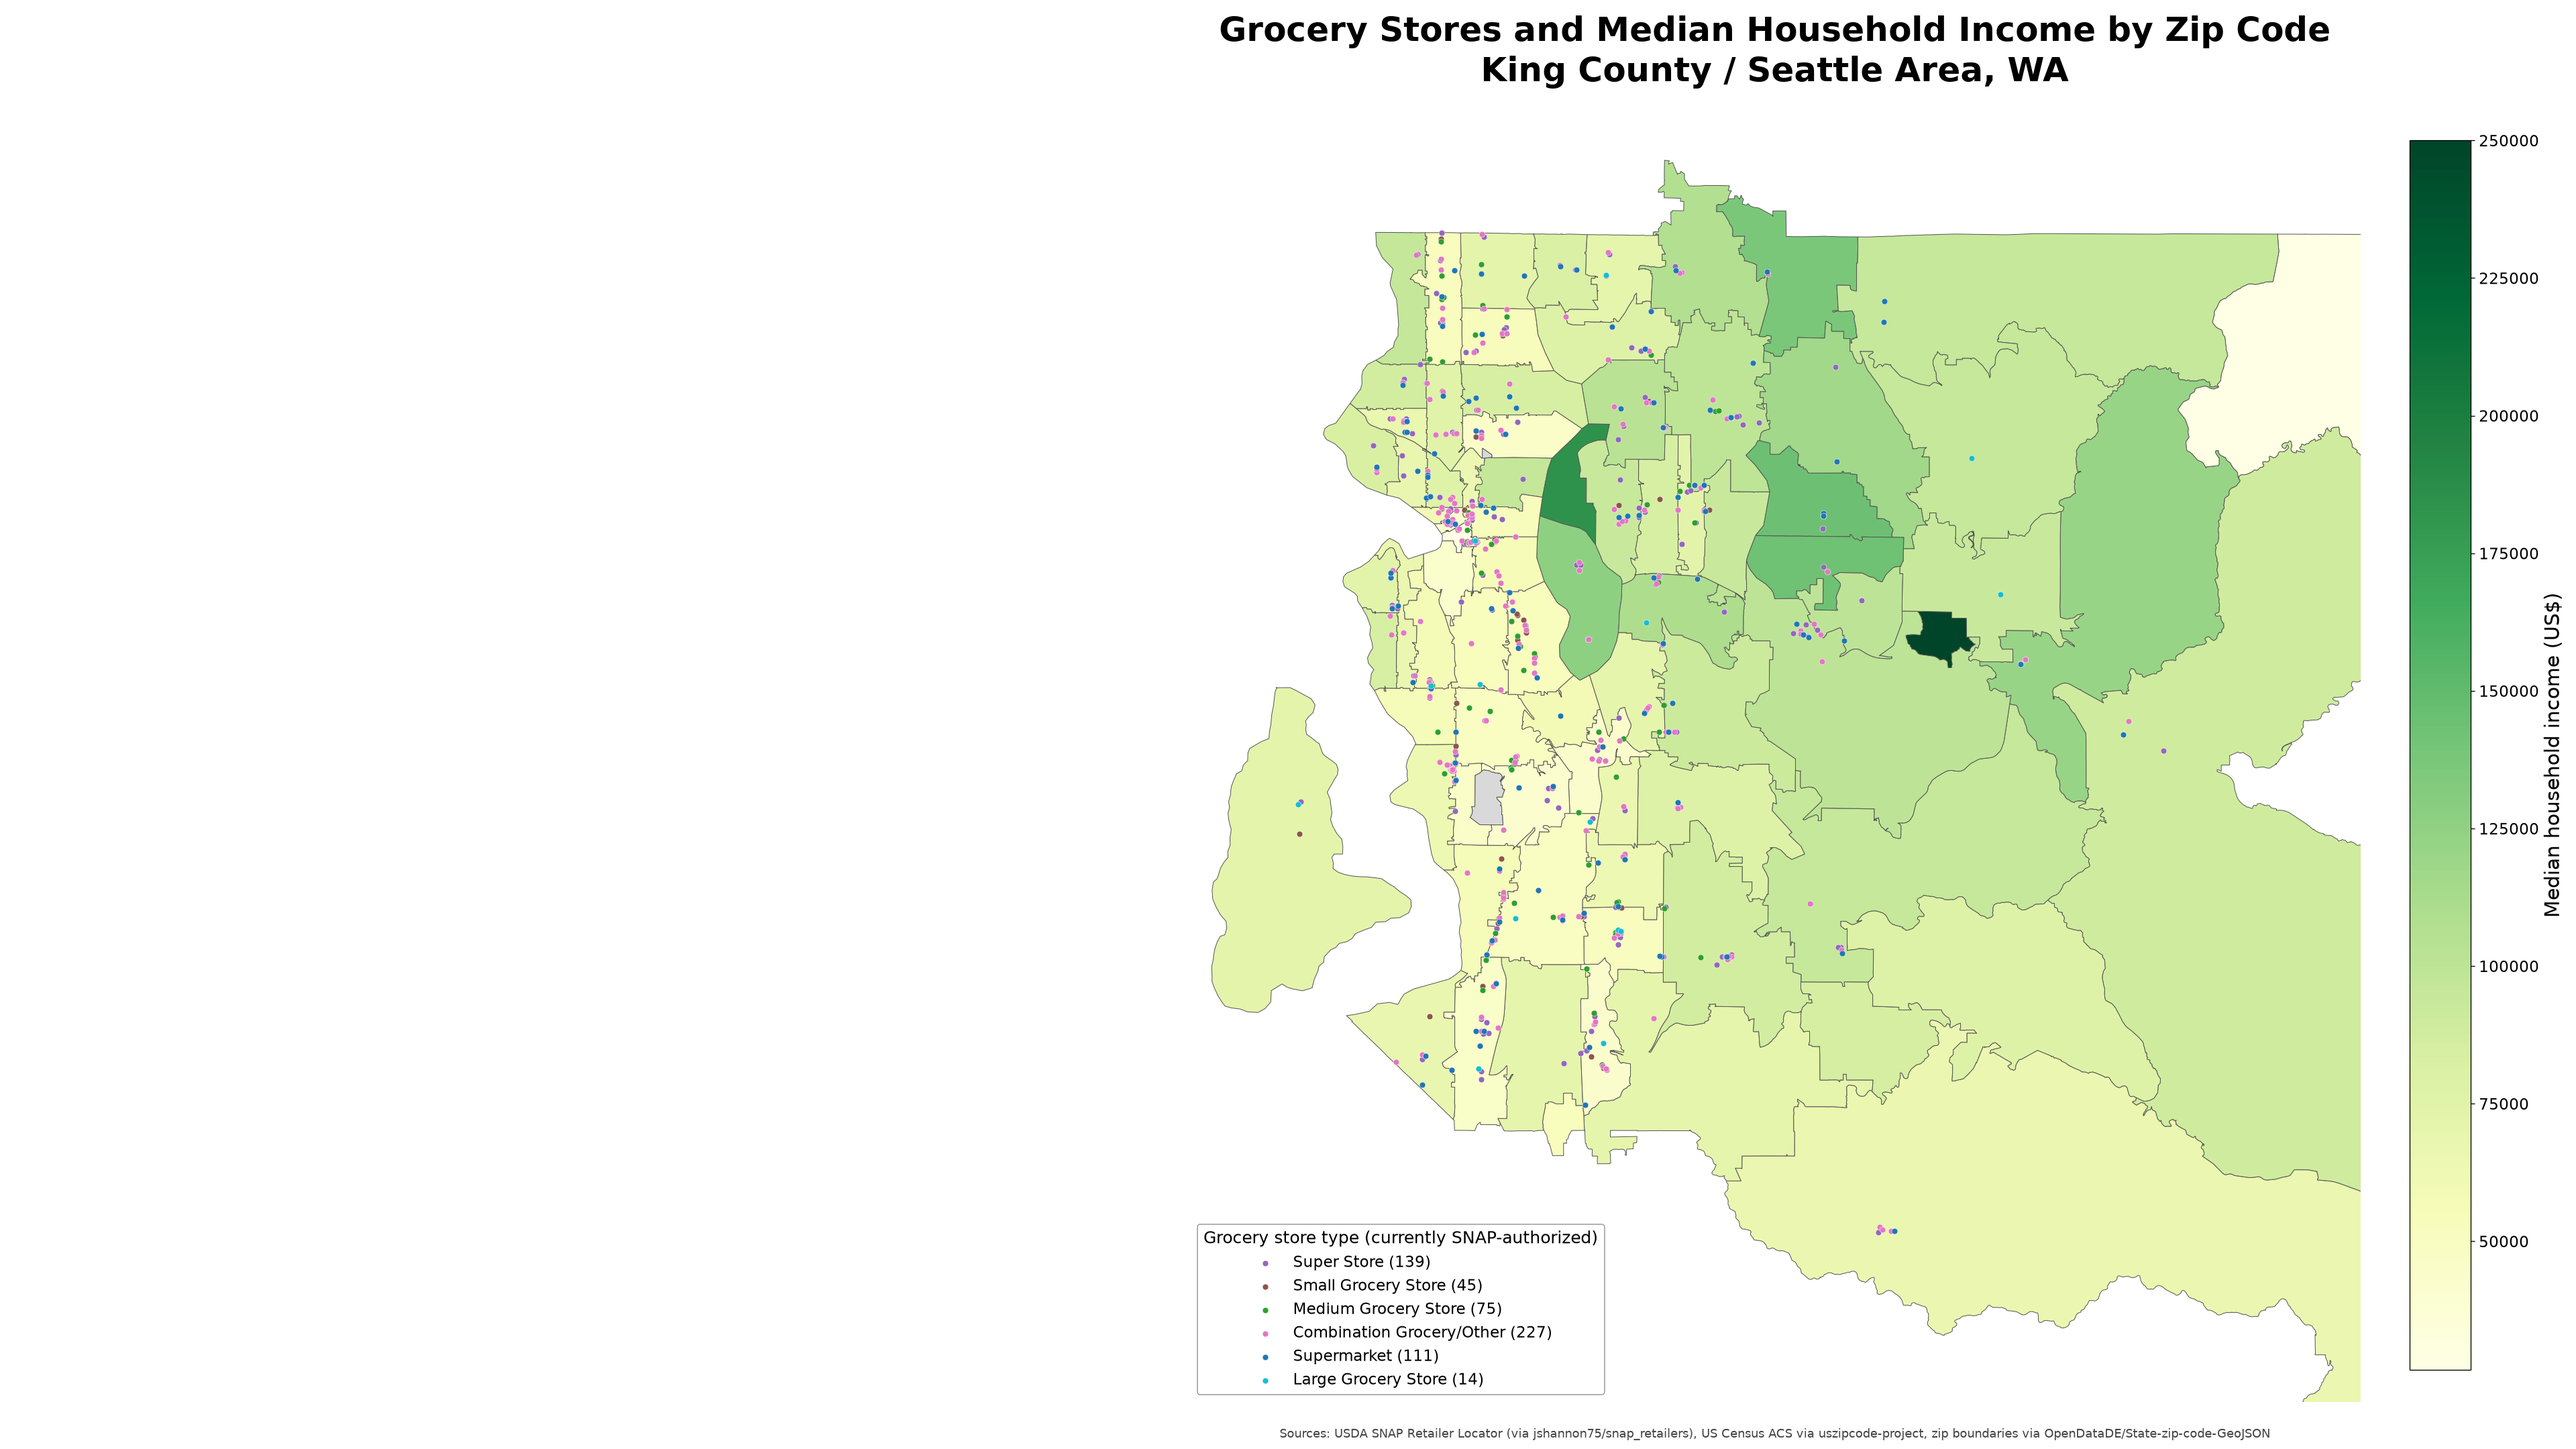
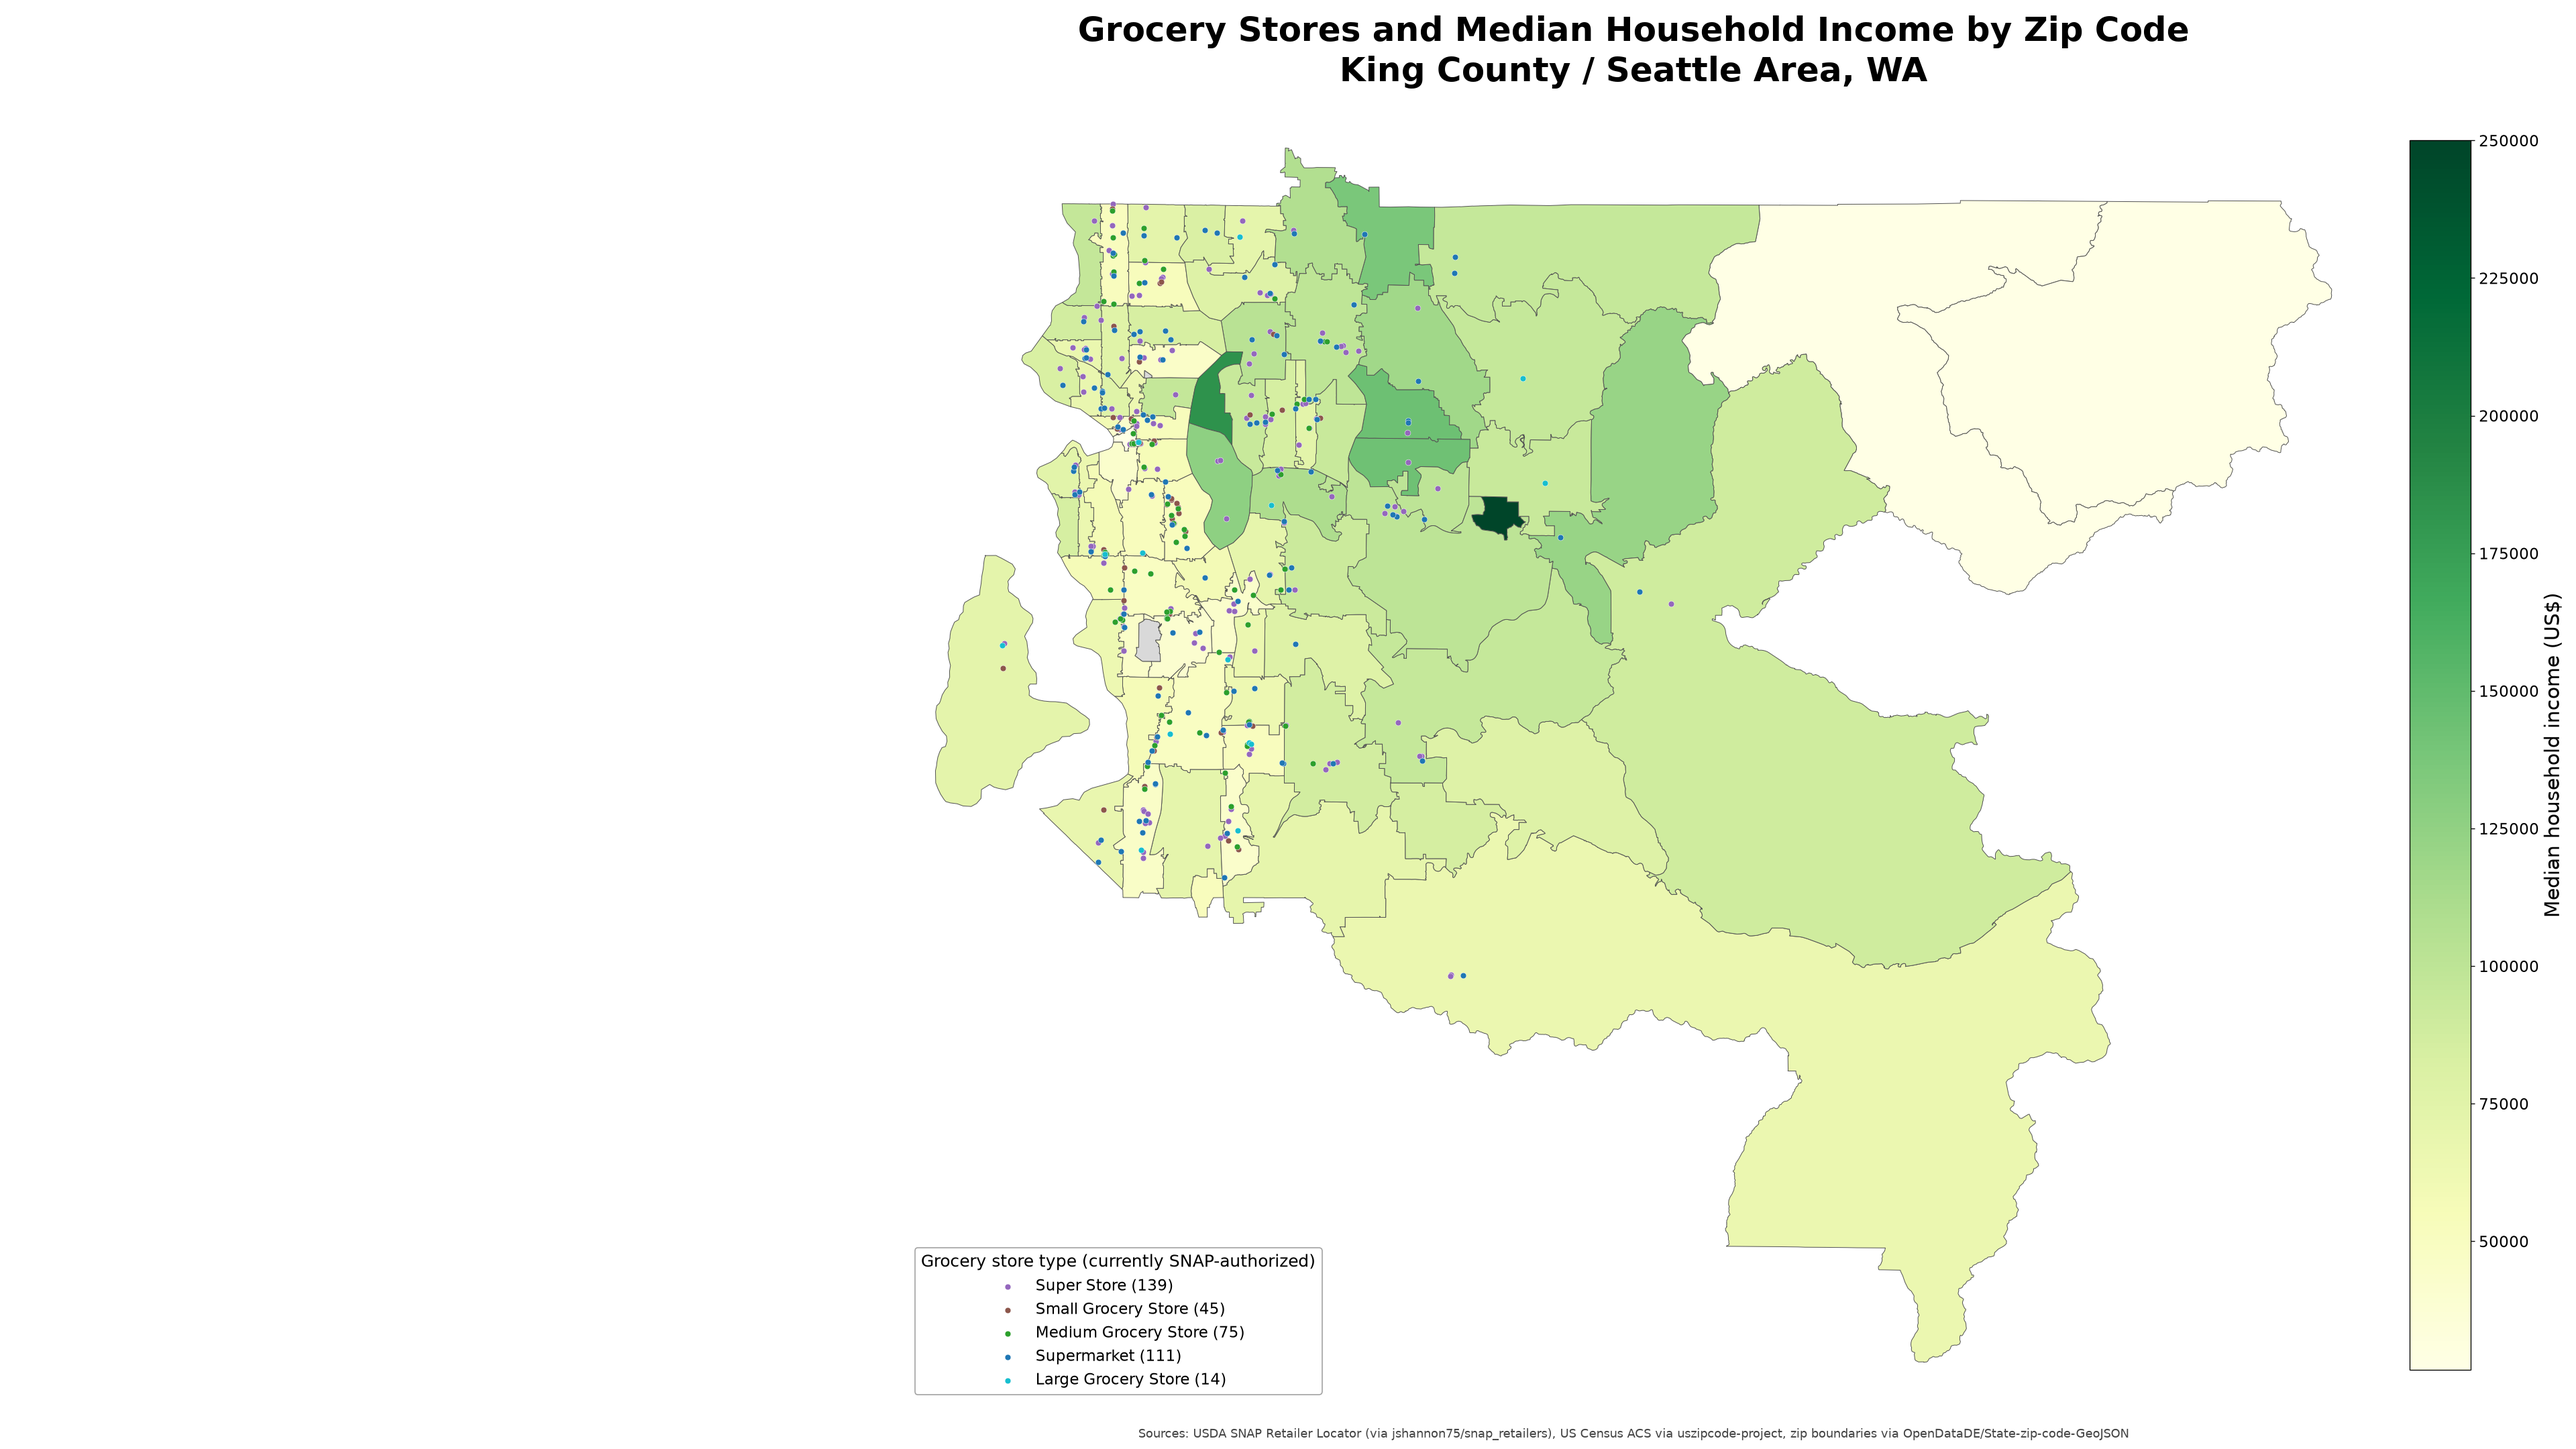
Fix grocery categories and ensure map frame fits all data
- Exclude "Combination Grocery/Other" from the plotted grocery stores:
  USDA uses that category for pharmacies, dollar stores, and other
  small retailers that sell some food but are not grocery stores.
- Compute the map's axis limits from the actual extent of the zip
  boundaries and store points (with a small margin) instead of a
  hardcoded box, and warn if any store would still fall outside the
  frame, so nothing is silently clipped.
- Regenerate docs/seattle_grocery_stores_income_map.png (4K PNG) with
  the corrected script; store count drops from 611 to 384 after
  removing the non-grocery category.
- Stop tracking the stray __pycache__ directory under scripts/grocery-map.

diff --git a/scripts/grocery-map/generate_map.py b/scripts/grocery-map/generate_map.py
@@ -13,9 +13,11 @@ Data sources (all public):
   - Grocery/food retailer locations: USDA SNAP historical retailer
     locator dataset, maintained at https://github.com/jshannon75/snap_retailers
     (hist_snap_retailer_final2022.csv). Only currently-authorized
-    (no end_date) stores in grocery-related categories are plotted:
-    Supermarket, Super Store, Large/Medium/Small Grocery Store,
-    Combination Grocery/Other.
+    (no end_date) stores in actual grocery categories are plotted:
+    Supermarket, Super Store, Large/Medium/Small Grocery Store.
+    "Combination Grocery/Other" (e.g. pharmacies, dollar stores, and other
+    small retailers that also sell some food) is deliberately excluded,
+    since those are not grocery stores.
 
 The script downloads these files into ./cache (gitignored) on first run,
 then renders a single PNG at 3840x2160 (4K) to the given output path.
@@ -47,17 +49,23 @@ SNAP_RETAILERS_ZIP_URL = (
     "hist_snap_retailer_final2022_csv.zip"
 )
 
+# Only genuine grocery stores. "Combination Grocery/Other" is excluded on
+# purpose: USDA uses that category for small retailers (pharmacies, dollar
+# stores, etc.) that sell some food but are not grocery stores.
 GROCERY_STORE_TYPES = {
     "Supermarket",
     "Super Store",
     "Large Grocery Store",
     "Medium Grocery Store",
     "Small Grocery Store",
-    "Combination Grocery/Other",
 }
 
 TARGET_COUNTY = "King County"
 TARGET_STATE = "WA"
+
+# Degrees of padding added around the data extent so points/polygons at the
+# edge of the data are not clipped by the axis limits.
+MAP_PADDING_DEGREES = 0.03
 
 
 def _download(url, dest):
@@ -90,6 +98,21 @@ def load_income_by_zip():
     ).fetchall()
     conn.close()
     return {z: income for z, income in rows}
+
+
+def load_all_king_zip_codes():
+    path = os.path.join(CACHE_DIR, "simple_db.sqlite")
+    _download(INCOME_DB_URL, path)
+    conn = sqlite3.connect(path)
+    zips = {
+        row[0]
+        for row in conn.execute(
+            "SELECT zipcode FROM simple_zipcode WHERE county=? AND state=?",
+            (TARGET_COUNTY, TARGET_STATE),
+        )
+    }
+    conn.close()
+    return zips
 
 
 def load_grocery_stores():
@@ -127,6 +150,37 @@ def load_grocery_stores():
     return stores
 
 
+def _iter_rings(geometry):
+    gtype = geometry["type"]
+    coords = geometry["coordinates"]
+    if gtype == "Polygon":
+        yield coords[0]
+    elif gtype == "MultiPolygon":
+        for poly in coords:
+            yield poly[0]
+
+
+def _data_bounds(features, stores):
+    """Compute the lon/lat bounding box covering every zip polygon vertex
+    and every store point, so nothing is clipped by the axis limits."""
+    minx = miny = float("inf")
+    maxx = maxy = float("-inf")
+    for feat in features:
+        for ring in _iter_rings(feat["geometry"]):
+            for x, y in ring:
+                minx, maxx = min(minx, x), max(maxx, x)
+                miny, maxy = min(miny, y), max(maxy, y)
+    for s in stores:
+        minx, maxx = min(minx, s["lon"]), max(maxx, s["lon"])
+        miny, maxy = min(miny, s["lat"]), max(maxy, s["lat"])
+    return (
+        minx - MAP_PADDING_DEGREES,
+        maxx + MAP_PADDING_DEGREES,
+        miny - MAP_PADDING_DEGREES,
+        maxy + MAP_PADDING_DEGREES,
+    )
+
+
 def main():
     out_path = sys.argv[1] if len(sys.argv) > 1 else "grocery_stores_income_map.png"
 
@@ -141,23 +195,11 @@ def main():
 
     geo = load_zip_boundaries()
     income_by_zip = load_income_by_zip()
+    all_king_zips = load_all_king_zip_codes()
     stores = load_grocery_stores()
 
-    king_zip_codes = set(income_by_zip.keys())
-
-    # Also include King County zips that have no income figure, so the
-    # boundary still draws (shown in grey) for visual continuity.
-    all_king_zips_path = os.path.join(CACHE_DIR, "simple_db.sqlite")
-    conn = sqlite3.connect(all_king_zips_path)
-    all_king_zips = {
-        row[0]
-        for row in conn.execute(
-            "SELECT zipcode FROM simple_zipcode WHERE county=? AND state=?",
-            (TARGET_COUNTY, TARGET_STATE),
-        )
-    }
-    conn.close()
-
+    # Include King County zips with no income figure too, so the boundary
+    # still draws (shown in grey) for visual continuity.
     features = [
         feat
         for feat in geo["features"]
@@ -165,6 +207,19 @@ def main():
     ]
     print(f"Zip boundaries matched: {len(features)}", file=sys.stderr)
     print(f"Grocery stores plotted: {len(stores)}", file=sys.stderr)
+
+    xmin, xmax, ymin, ymax = _data_bounds(features, stores)
+    out_of_frame = [
+        s
+        for s in stores
+        if not (xmin <= s["lon"] <= xmax and ymin <= s["lat"] <= ymax)
+    ]
+    if out_of_frame:
+        print(
+            f"WARNING: {len(out_of_frame)} store(s) fall outside the computed "
+            "map frame and would be clipped",
+            file=sys.stderr,
+        )
 
     incomes = [v for v in income_by_zip.values() if v]
     norm = Normalize(vmin=min(incomes), vmax=max(incomes))
@@ -175,22 +230,13 @@ def main():
     fig, ax = plt.subplots(figsize=(fig_w, fig_h), dpi=dpi)
     fig.patch.set_facecolor("white")
 
-    def iter_rings(geometry):
-        gtype = geometry["type"]
-        coords = geometry["coordinates"]
-        if gtype == "Polygon":
-            yield coords[0]
-        elif gtype == "MultiPolygon":
-            for poly in coords:
-                yield poly[0]
-
     patches = []
     colors = []
     for feat in features:
         zc = feat["properties"]["ZCTA5CE10"]
         income = income_by_zip.get(zc)
         color = sm.to_rgba(income) if income else (0.85, 0.85, 0.85, 1.0)
-        for ring in iter_rings(feat["geometry"]):
+        for ring in _iter_rings(feat["geometry"]):
             patches.append(MplPolygon(ring, closed=True))
             colors.append(color)
 
@@ -203,7 +249,6 @@ def main():
         "Large Grocery Store": "#17becf",
         "Medium Grocery Store": "#2ca02c",
         "Small Grocery Store": "#8c564b",
-        "Combination Grocery/Other": "#e377c2",
     }
     by_type = {}
     for s in stores:
@@ -223,8 +268,8 @@ def main():
             zorder=3,
         )
 
-    ax.set_xlim(-122.55, -121.6)
-    ax.set_ylim(47.1, 47.85)
+    ax.set_xlim(xmin, xmax)
+    ax.set_ylim(ymin, ymax)
     ax.set_aspect(1.4)
     ax.set_xticks([])
     ax.set_yticks([])

diff --git a/scripts/grocery-map/README.md b/scripts/grocery-map/README.md
@@ -2,9 +2,11 @@
 
 `generate_map.py` builds a single 4K (3840x2160) PNG that shows:
 
-- Every currently SNAP-authorized grocery-type retailer in King County, WA
+- Every currently SNAP-authorized grocery store in King County, WA
   (supermarkets, super stores, and large/medium/small grocery stores), plotted
-  as points colored by store type.
+  as points colored by store type. USDA's "Combination Grocery/Other"
+  category (pharmacies, dollar stores, and other small retailers that sell
+  some food) is intentionally excluded, since those aren't grocery stores.
 - A choropleth of median household income by zip code (ZCTA) across King
   County, from US Census ACS data.
 
@@ -18,6 +20,10 @@
 
 All three are public datasets fetched over HTTPS. Downloaded files are cached
 under `cache/` (gitignored) so re-running the script doesn't re-download them.
+
+The map's axis limits are computed automatically from the actual extent of
+the zip boundaries and store points (plus a small margin), so nothing is cut
+off at the edge of the picture.
 
 ## Usage
 
